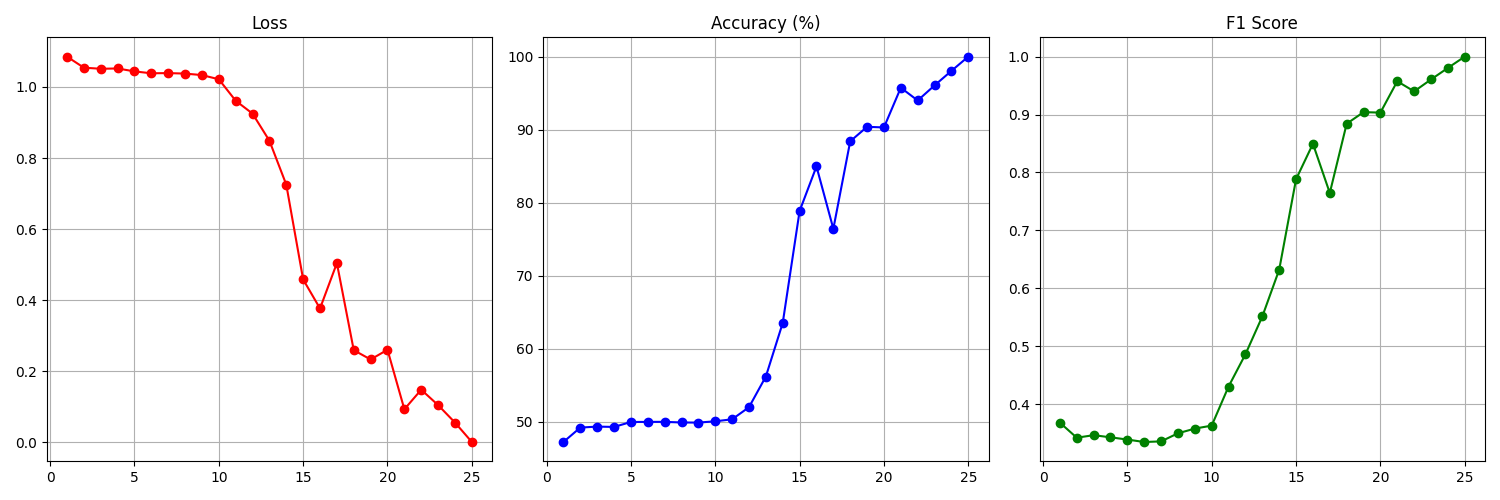
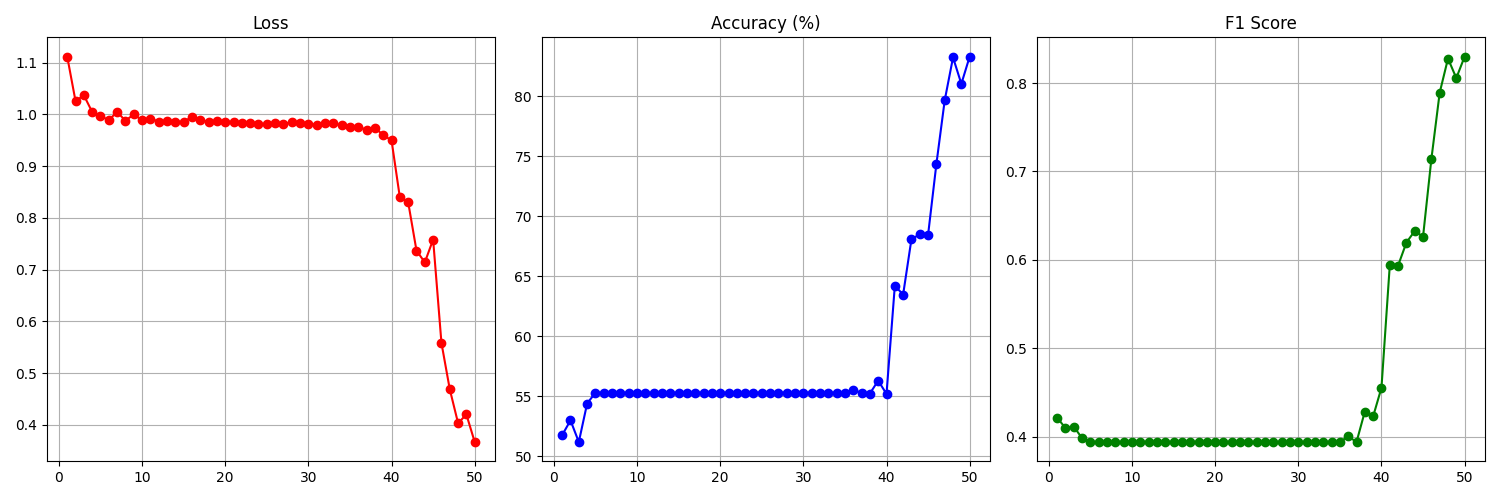
using custom env

diff --git a/tp_minigrid_trm/gridEnv.py b/tp_minigrid_trm/gridEnv.py
@@ -1,45 +1,57 @@
 import numpy as np
+import minigrid
+# Import correct pour les versions récentes de minigrid
+from minigrid.minigrid_env import MiniGridEnv
+from minigrid.core.grid import Grid
+from minigrid.core.mission import MissionSpace
+from minigrid.core.world_object import Goal
+
+# --- HYPERPARAMETERS ENV ---
+# Tu as la main ici : change 6 en 8, 10, 16...
+GRID_SIZE = 12 
+MAX_STEPS = 200
+
+class gridEnv(MiniGridEnv):
+    def __init__(self, size=GRID_SIZE, **kwargs):
+        self.agent_start_pos = (1, 1)
+        self.agent_start_dir = 0
+        mission_space = MissionSpace(mission_func=lambda: "go to goal")
+        super().__init__(mission_space=mission_space, grid_size=size, max_steps=MAX_STEPS, **kwargs)
+
+    def _gen_grid(self, width, height):
+        self.grid = Grid(width, height)
+        self.grid.wall_rect(0, 0, width, height)
+        self.place_agent()
+        self.place_obj(Goal())
+        self.mission = "go to goal"
 
 def get_expert_action(env):
-    # On récupère l'environnement de base (sans les wrappers Gymnasium)
-    # pour accéder à la grille et la position de l'agent.
-    base_env = env.unwrapped
-    
-    agent_pos = base_env.agent_pos
-    agent_dir = base_env.agent_dir
+    """
+    Expert Naïf (Ligne droite).
+    Fonctionne PARFAITEMENT pour cet environnement vide.
+    Ne marchera pas s'il y a des murs.
+    """
+    agent_pos = env.agent_pos
+    agent_dir = env.agent_dir
     goal_pos = None
     
-    # Scan de la grille pour trouver le Goal
-    grid = base_env.grid
-    for x in range(base_env.width):
-        for y in range(base_env.height):
-            # minigrid stocke les objets dans grid.get(x, y)
-            obj = grid.get(x, y)
+    # Scan de la grille
+    for x in range(env.width):
+        for y in range(env.height):
+            obj = env.grid.get(x, y)
             if obj and obj.type == 'goal':
                 goal_pos = (x, y)
                 break
     
-    # Si pas de goal trouvé (rare), action aléatoire
-    if not goal_pos: 
-        return base_env.action_space.sample()
+    if not goal_pos: return env.action_space.sample()
 
-    # Calcul du vecteur direction
     dx = goal_pos[0] - agent_pos[0]
     dy = goal_pos[1] - agent_pos[1]
     
-    # Détermination de l'orientation cible (0:Right, 1:Down, 2:Left, 3:Up)
     target_dir = -1
-    if abs(dx) > abs(dy): 
-        target_dir = 0 if dx > 0 else 2
-    else: 
-        target_dir = 1 if dy > 0 else 3
+    if abs(dx) > abs(dy): target_dir = 0 if dx > 0 else 2
+    else: target_dir = 1 if dy > 0 else 3
 
-    # Choix de l'action (0: Left, 1: Right, 2: Forward)
-    # Attention: Les indices d'action peuvent varier selon les versions, 
-    # mais pour MiniGrid standard : 0=left, 1=right, 2=forward
-    if agent_dir == target_dir: 
-        return 2 # Forward
-    elif (agent_dir + 1) % 4 == target_dir: 
-        return 1 # Right
-    else: 
-        return 0 # Left
+    if agent_dir == target_dir: return 2 
+    elif (agent_dir + 1) % 4 == target_dir: return 1 
+    else: return 0

diff --git a/tp_minigrid_trm/train.py b/tp_minigrid_trm/train.py
@@ -2,8 +2,6 @@ import torch
 import torch.nn as nn
 import torch.optim as optim
 import numpy as np
-import gymnasium as gym
-import minigrid # Important pour enregistrer les envs
 from sklearn.metrics import f1_score
 from torch.utils.data import TensorDataset, DataLoader
 
@@ -12,22 +10,23 @@ import matplotlib
 matplotlib.use('Agg')
 import matplotlib.pyplot as plt
 
-from gridEnv import get_expert_action
+# On importe TON environnement
+from gridEnv import gridEnv, get_expert_action, GRID_SIZE
 
 # --- HYPERPARAMETERS ---
 DEVICE = torch.device("cuda" if torch.cuda.is_available() else "cpu")
-ENV_ID = "MiniGrid-Empty-8x8-v0"
+
 INPUT_DIM = 3       # RGB
 D_MODEL = 64        # Latent dim
 NUM_HEADS = 2       # Attention heads
-NUM_ACTIONS = 3     # Gauche, Droite, Avancer (MiniGrid a 7 actions, mais on en utilise 3)
-SEQ_LEN = 49        # Vue 7x7 = 49 pixels (Standard Minigrid)
+NUM_ACTIONS = 3     # Gauche, Droite, Avancer
+SEQ_LEN = 49        # Vue 7x7 = 49 pixels
 N_STEPS = 3         # TRM Thinking steps
 
-BATCH_SIZE = 64     # Augmenté pour stabilité
-LEARNING_RATE = 0.0005
-EPOCHS = 25         # Suffisant avec un bon expert
-EPISODES = 1000     # Plus d'épisodes car 16x16 est plus grand
+BATCH_SIZE = 32
+LEARNING_RATE = 0.001
+EPOCHS = 50         # 10 suffisent pour du 6x6 vide
+EPISODES = 600      # Dataset suffisant
 
 class TRMBlock(nn.Module):
     def __init__(self, d_model, num_heads):
@@ -81,9 +80,9 @@ class TRMAgent(nn.Module):
         return self.head(y_summary)
 
 def generate_dataset(episodes=EPISODES):
-    print(f"Generation dataset on {ENV_ID} ({episodes} eps)...")
-    # render_mode='rgb_array' est obligatoire pour avoir l'image dans l'observation
-    env = gym.make(ENV_ID, render_mode="rgb_array")
+    print(f"Generation dataset with custom gridEnv ({episodes} eps)...")
+    # Instanciation de TON env
+    env = gridEnv(size=GRID_SIZE, render_mode="rgb_array")
     
     X_data, y_data = [], []
 
@@ -91,23 +90,19 @@ def generate_dataset(episodes=EPISODES):
         obs, _ = env.reset()
         done = False
         while not done:
-            # L'expert calcule l'action optimale
             action = get_expert_action(env)
             
-            # Gymnasium Minigrid renvoie un dict. On veut 'image'.
             # Normalisation 0-255 -> 0-1
             img = obs['image'].astype(np.float32) / 255.0
             
             X_data.append(img)
             y_data.append(action)
             
-            # Step
             obs, reward, terminated, truncated, _ = env.step(action)
             done = terminated or truncated
 
     env.close()
     
-    # Conversion Tensor
     X_tensor = torch.tensor(np.array(X_data))
     y_tensor = torch.tensor(np.array(y_data), dtype=torch.long)
     print(f"Dataset size: {len(X_data)} frames")

diff --git a/tp_minigrid_trm/main.py b/tp_minigrid_trm/main.py
@@ -1,26 +1,25 @@
 import torch
 import numpy as np
 import imageio
-import gymnasium as gym
-import minigrid
-from train import generate_dataset, train_model, DEVICE, ENV_ID
+# Import de TON env
+from gridEnv import gridEnv, GRID_SIZE
+from train import generate_dataset, train_model, DEVICE
 
-VIDEO_FILENAME = "trm_gym_result.mp4"
-VIDEO_FPS = 8  # Un peu plus rapide car 16x16 c'est grand
+VIDEO_FILENAME = "custom_env_result.mp4"
+VIDEO_FPS = 5
 
 def generate_video(model, filename=VIDEO_FILENAME):
-    print(f"Generating video for {ENV_ID}...")
-    env = gym.make(ENV_ID, render_mode="rgb_array")
+    print(f"Generating video for custom gridEnv (Size {GRID_SIZE})...")
+    env = gridEnv(size=GRID_SIZE, render_mode="rgb_array")
     writer = imageio.get_writer(filename, fps=VIDEO_FPS)
     
     obs, _ = env.reset()
     done = False
     
-    # Enregistrement première frame
     writer.append_data(env.render())
     
     step_count = 0
-    while not done and step_count < 200: # Max 200 steps pour éviter les fichiers énormes
+    while not done and step_count < 60:
         img = obs['image'].astype(np.float32) / 255.0
         img_tensor = torch.tensor(img).unsqueeze(0).to(DEVICE)
         
@@ -42,7 +41,7 @@ def generate_video(model, filename=VIDEO_FILENAME):
     print(f"Video saved to {filename}")
 
 if __name__ == "__main__":
-    # 1. Dataset Gymnasium
+    # 1. Dataset Custom
     dataset = generate_dataset()
     
     # 2. Entraînement
